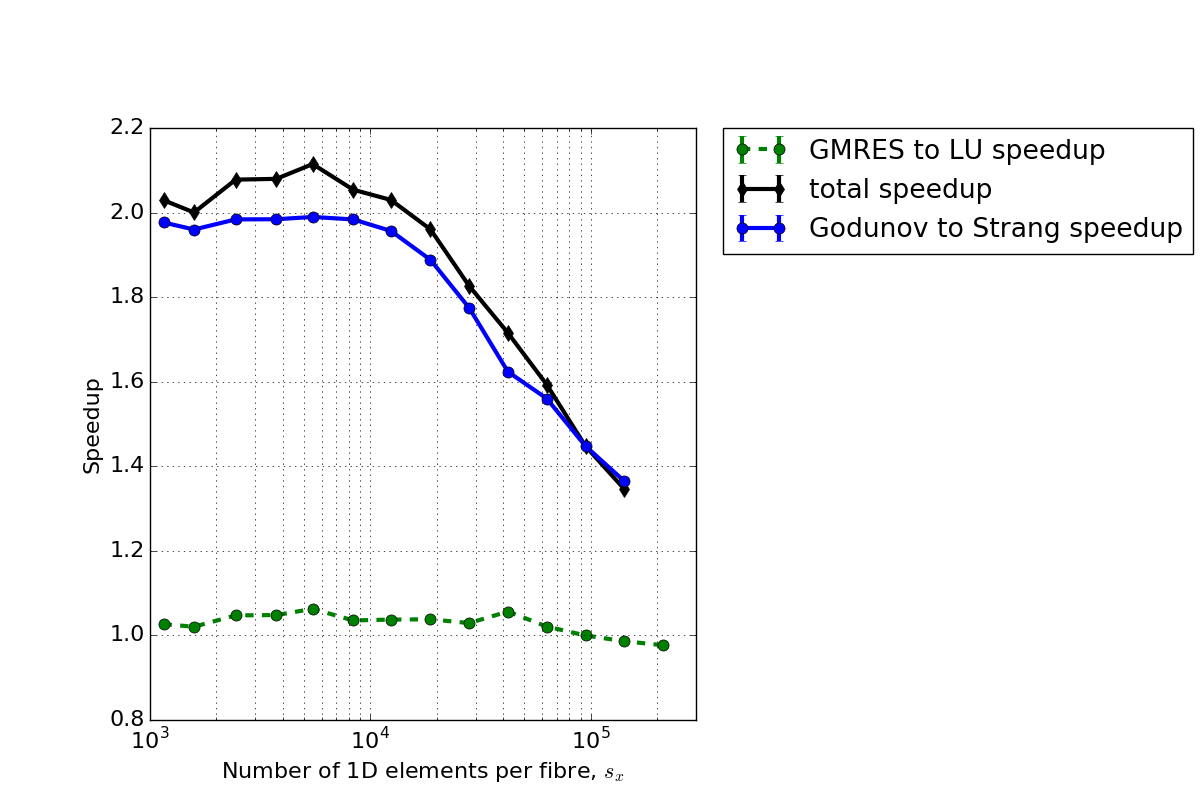
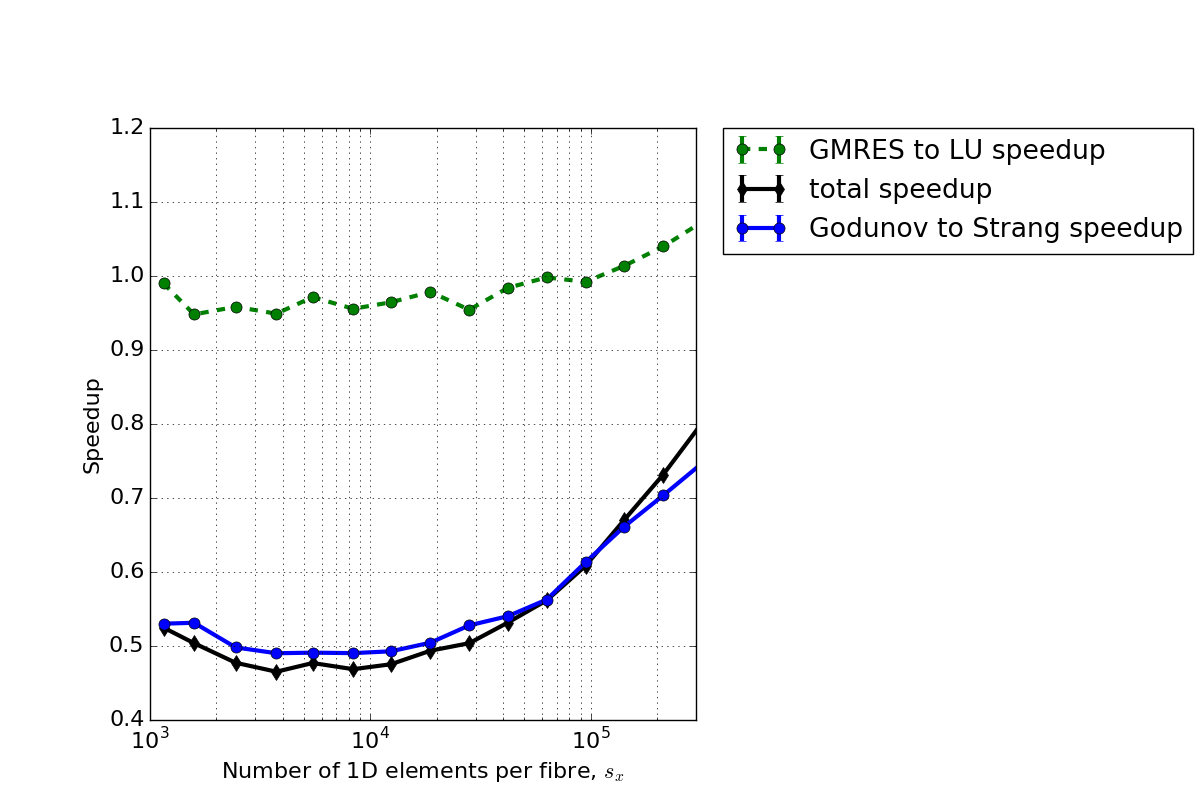
Correct plot script

diff --git a/strang_benefit/plot_paper.py b/strang_benefit/plot_paper.py
@@ -27,7 +27,7 @@ outlier_bottom = 0
   
 # read csv file
 report_filename = "duration.00000.csv"
-report_filename = "b.csv"
+report_filename = "d.csv"
 
 caption = u'Runtime over problem size, neon'
 
@@ -495,19 +495,19 @@ for key in datasets:
       if "{:04d}".format(int(nM))+"_1st_order_gmres" not in datasets:
         continue
       yvalue = datasets["{:04d}".format(int(nM))+"_1st_order_gmres"]['value'][15] / dataset[plotkey_number]   # GMRES to LU speedup
-      yvalue = 1./yvalue
+      #yvalue = 1./yvalue
       
     elif s == ".-":   # godunov GMRES                # strang LU
       if "{:04d}".format(int(nM))+"_2nd_order" not in datasets:
         continue
       yvalue = dataset[plotkey_number] / datasets["{:04d}".format(int(nM))+"_2nd_order"]['value'][15]   # total speedup
-      yvalue = 1./yvalue
+      #yvalue = 1./yvalue
       
     else:             # strang LU                    # godunov LU
       if "{:04d}".format(int(nM))+"_1st_order" not in datasets:
         continue
       
-      yvalue = dataset[plotkey_number] / datasets["{:04d}".format(int(nM))+"_1st_order"]['value'][15]   # strang to godunov speedup
+      yvalue = datasets["{:04d}".format(int(nM))+"_1st_order"]['value'][15] / dataset[plotkey_number]  # godunov to strang speedup
     yvalue_variance = 0
       
     if plotkey not in plotdata:
@@ -629,7 +629,7 @@ for key in datasets:
     if "{:04d}".format(int(nM))+"_1st_order" not in datasets:
       continue
     
-    yvalue = dataset[plotkey_number] / datasets["{:04d}".format(int(nM))+"_1st_order"]['value'][15]
+    yvalue = datasets["{:04d}".format(int(nM))+"_1st_order"]['value'][15] / dataset[plotkey_number]
     
     yvalue_variance = variances[plotkey_number]
       
